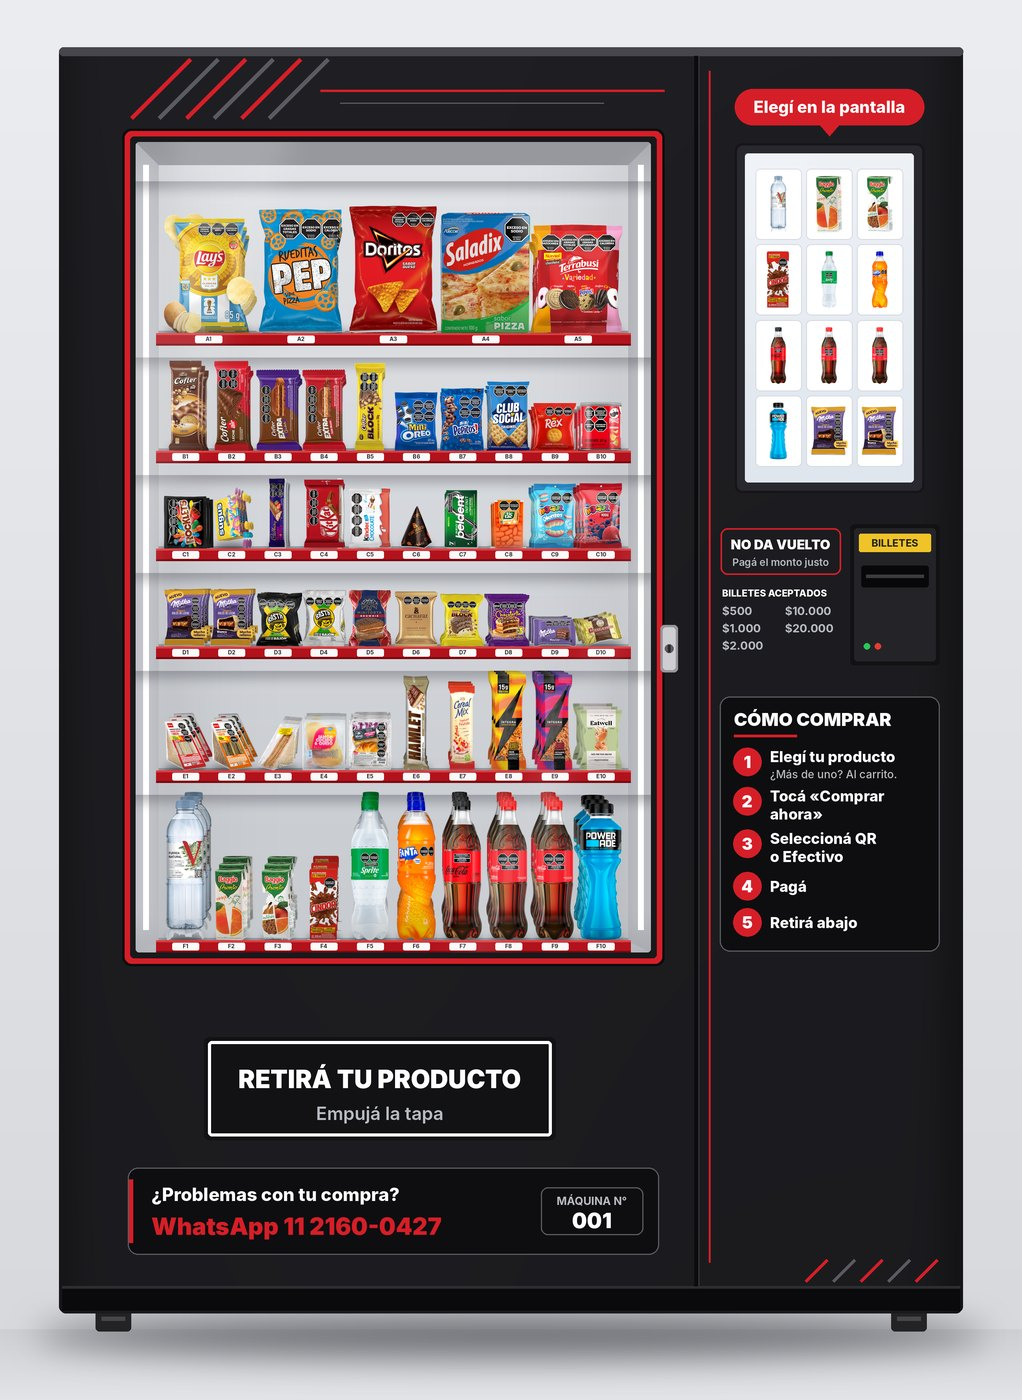
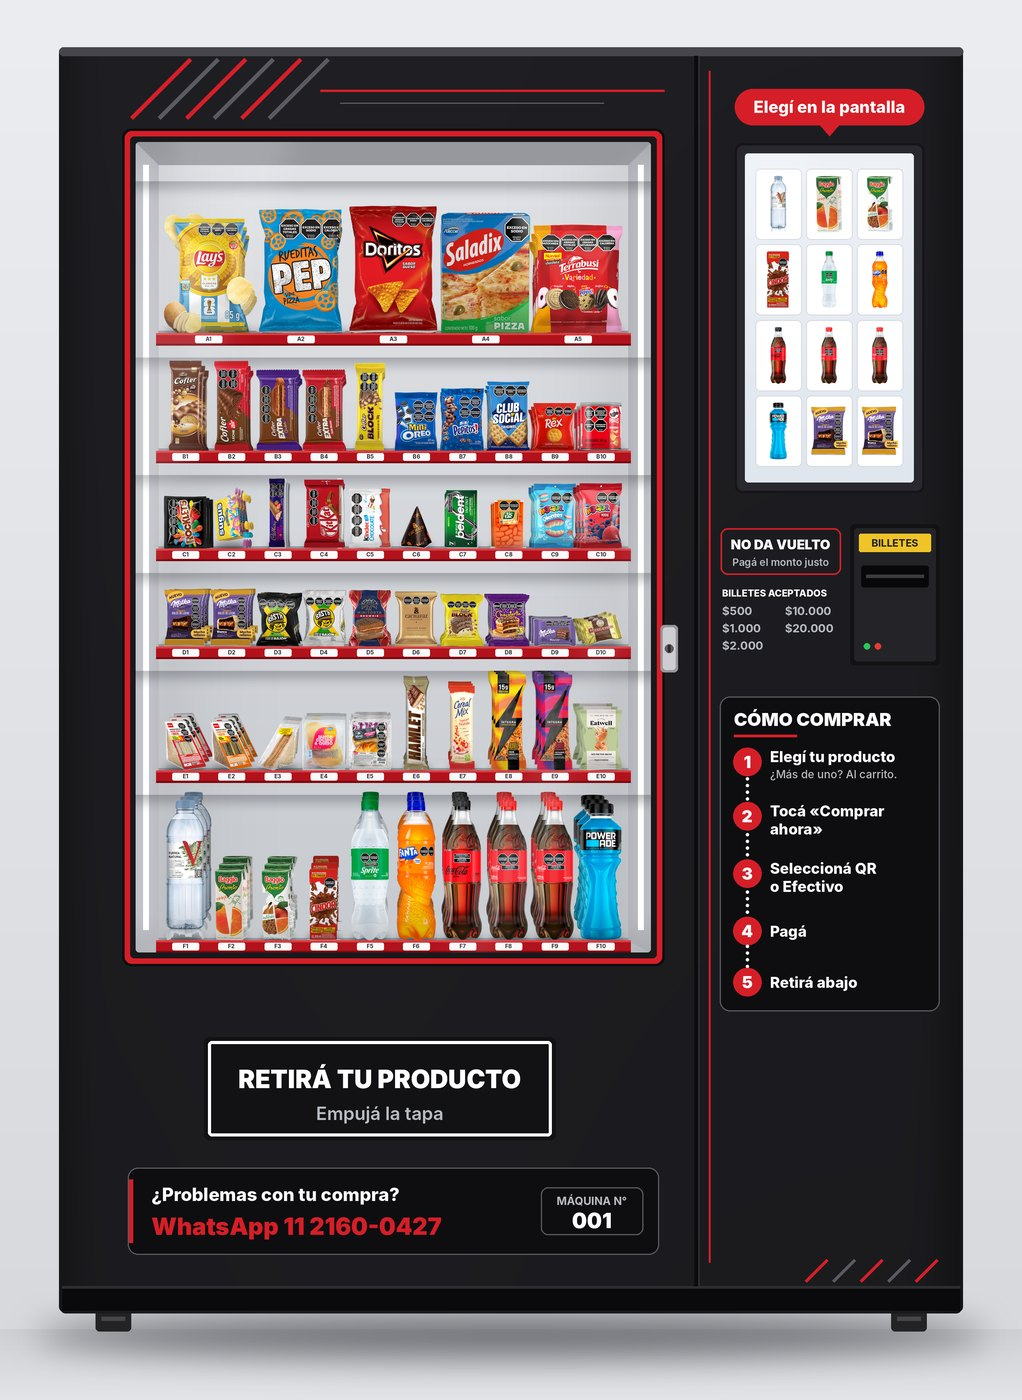
Ploteo sanatorio: 4 puntitos blancos entre los pasos
Claude-Session: https://claude.ai/code/session_019riW69UisGa26ciLraXE3K

Changed region(s): [[0.6977, 0.5529, 0.8796, 0.7371]]

diff --git a/maquina-expendedora/scripts/ploteo_sanatorio.py b/maquina-expendedora/scripts/ploteo_sanatorio.py
@@ -91,7 +91,7 @@ def ploteo(v):
              (["Pagá"], []),
              (["Retirá abajo"], [])]
     alto = lambda t, s: max(76, 46 * len(t) + 38 * len(s))
-    gap = 16
+    gap = 54
     sy1 = sy0 + 130 + sum(alto(t, s) for t, s in pasos) + gap * (len(pasos) - 1) + 34
     d.rounded_rectangle((sx0, sy0, sx1, sy1), 26, fill=caja, outline=l2, width=3)
     d.text((sx0 + 36, sy0 + 30), "CÓMO COMPRAR", font=fnt("black", 46), fill=BLANCO)
@@ -106,6 +106,12 @@ def ploteo(v):
             d.text((sx0 + 128, ty + j * 46), ln, font=fnt("xb", 38), fill=BLANCO)
         for j, ln in enumerate(sub):
             d.text((sx0 + 128, ty + len(tit) * 46 + 4 + j * 38), ln, font=fnt("m", 28), fill=GRIS_T)
+        if i < len(pasos) - 1:                # 4 puntitos blancos debajo de cada número
+            y0d, y1d = y + 72, y + h + gap
+            ym = (y0d + y1d) / 2
+            for k in range(4):                # separación fija, centrados entre círculo y círculo
+                yy = ym + (k - 1.5) * 17
+                d.ellipse((sx0 + 66, yy - 4, sx0 + 74, yy + 4), fill=BLANCO)
         y += h + gap
 
     # Puerta de retiro
